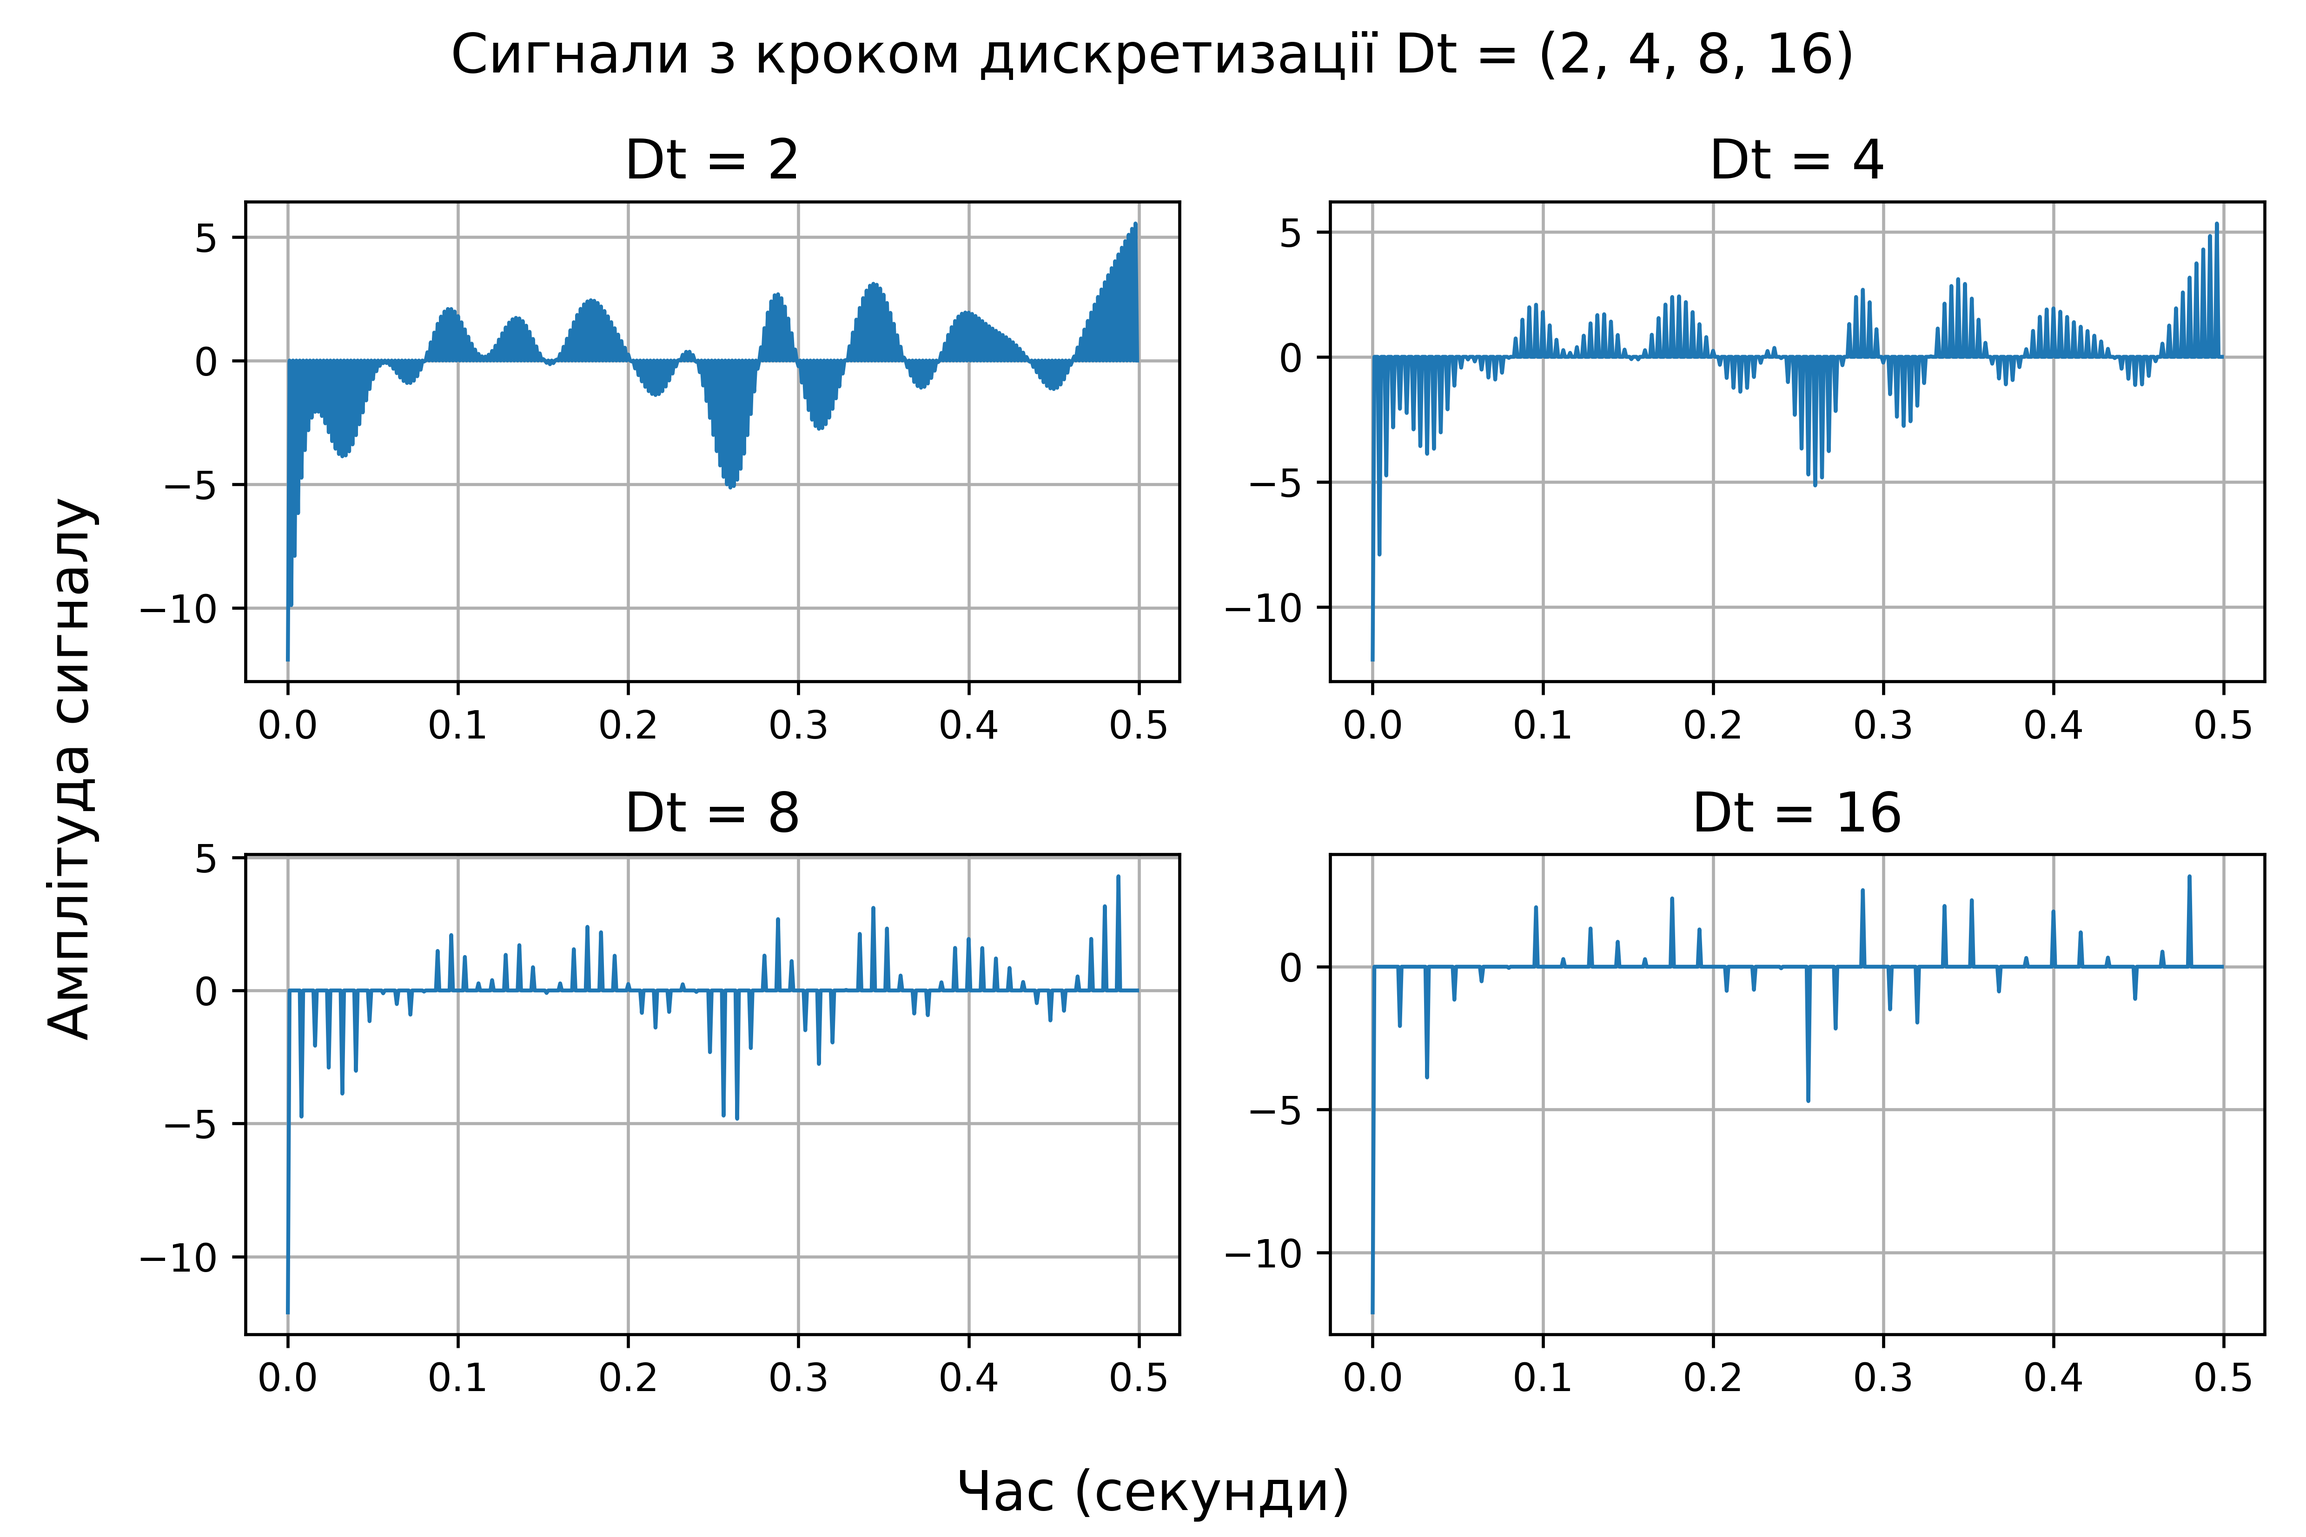
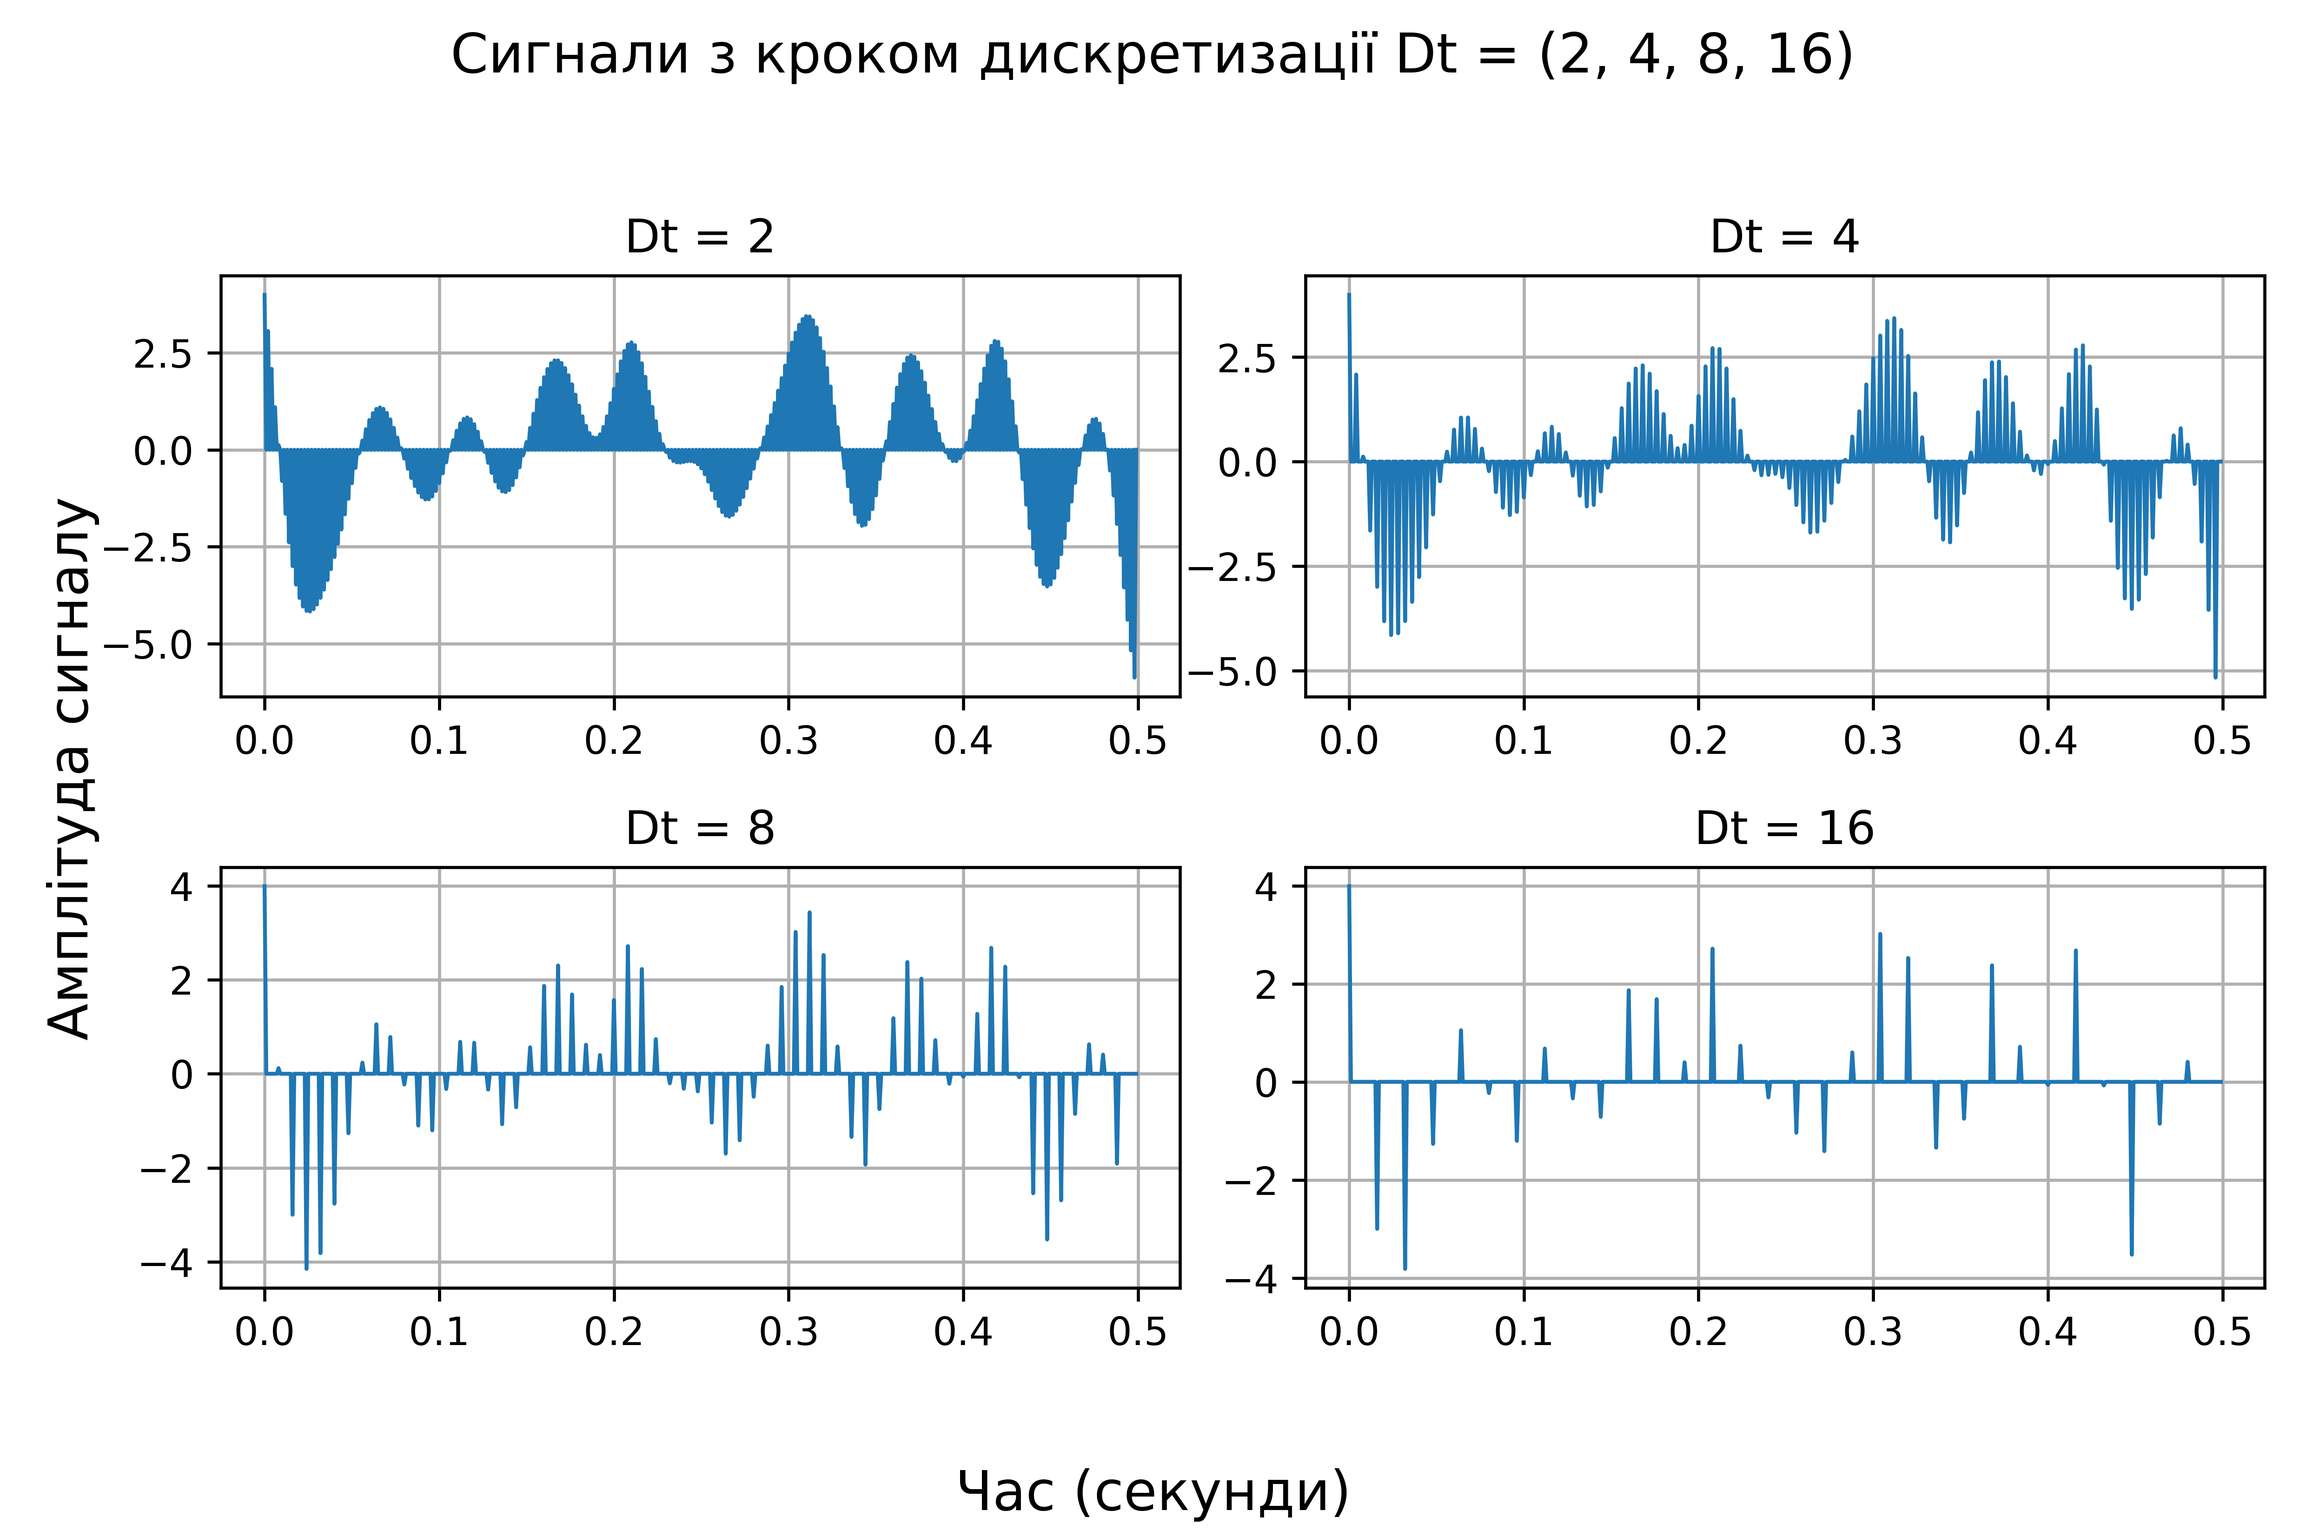
SignalProseccing 3-rd stage

Changed region(s): [[0.0625, 0.0934, 0.5312, 0.9032], [0.5312, 0.0934, 1.0, 0.9032]]

diff --git a/SignalProcessing.py b/SignalProcessing.py
@@ -1,7 +1,7 @@
-import numpy as np
-from scipy import signal, fft
-import matplotlib.pyplot as plt
 import os
+import numpy as np
+import matplotlib.pyplot as plt
+from scipy import signal, fft
 
 
 def generate_signal(n, f_max, fs):
@@ -15,9 +15,22 @@ def generate_signal(n, f_max, fs):
     return time_values, filtered_signal
 
 
-def plot_graph(x, y, title, xlabel, ylabel, filename):
+def calculate_spectrum(sig, fs):
+    spectrum = fft.fft(sig)
+    spectrum_abs = np.abs(fft.fftshift(spectrum))
+    freq = fft.fftfreq(len(sig), d=1 / fs)
+    freq_shifted = fft.fftshift(freq)
+    return freq_shifted, spectrum_abs
+
+
+def plot_graph(x, y, title, xlabel, ylabel, filename, linewidth=1, step=False):
     fig, ax = plt.subplots(figsize=(21 / 2.54, 14 / 2.54))
-    ax.plot(x, y, linewidth=1)
+
+    if step:
+        ax.step(x, y, where='post', linewidth=linewidth)
+    else:
+        ax.plot(x, y, linewidth=linewidth)
+
     ax.set_xlabel(xlabel, fontsize=14)
     ax.set_ylabel(ylabel, fontsize=14)
     ax.set_title(title, fontsize=14)
@@ -27,37 +40,46 @@ def plot_graph(x, y, title, xlabel, ylabel, filename):
     plt.show()
 
 
-def plot_subplots(x, y_list, title, xlabel, ylabel, filename, dt_values):
+def plot_subplots(x, y_list, subplot_titles, title, xlabel, ylabel, filename, step=False):
     fig, ax = plt.subplots(2, 2, figsize=(21 / 2.54, 14 / 2.54))
     s = 0
 
     for i in range(2):
         for j in range(2):
-            ax[i][j].plot(x, y_list[s], linewidth=1)
-            ax[i][j].set_title(f"Dt = {dt_values[s]}", fontsize=14)
+            if step:
+                ax[i][j].step(x, y_list[s], where='post', linewidth=1)
+            else:
+                ax[i][j].plot(x, y_list[s], linewidth=1)
+
+            ax[i][j].set_title(subplot_titles[s], fontsize=12)
             ax[i][j].grid(True)
             s += 1
 
     fig.supxlabel(xlabel, fontsize=14)
     fig.supylabel(ylabel, fontsize=14)
     fig.suptitle(title, fontsize=14)
-    fig.tight_layout()
+    fig.tight_layout(rect=[0, 0.03, 1, 0.95])
     fig.savefig(filename, dpi=600)
     plt.show()
 
 
 if __name__ == "__main__":
-    # Варіант 10
+    np.random.seed(42)
+
+    # ---------------- Загальні параметри ----------------
     n = 500
     Fs = 1000
-    F_max = 21
-    F_filter = 28
+    F_max = 21          # Варіант 10 для ПР2/ПР4
+    F_filter = 28       # Варіант 10 для ПР3
     Dt_values = [2, 4, 8, 16]
+    M_values = [4, 16, 64, 256]
 
     if not os.path.exists("figures"):
         os.makedirs("figures")
 
-    # ---------------- ПР2: генерація сигналу ----------------
+    # ====================================================
+    #                   ПРАКТИЧНА РОБОТА 2
+    # ====================================================
     time_values, filtered_signal = generate_signal(n, F_max, Fs)
 
     plot_graph(
@@ -69,10 +91,7 @@ if __name__ == "__main__":
         f"./figures/Сигнал_Fmax_{F_max}Гц.png"
     )
 
-    spectrum = fft.fft(filtered_signal)
-    spectrum_abs = np.abs(fft.fftshift(spectrum))
-    freq = fft.fftfreq(n, d=1 / Fs)
-    freq_shifted = fft.fftshift(freq)
+    freq_shifted, spectrum_abs = calculate_spectrum(filtered_signal, Fs)
 
     plot_graph(
         freq_shifted,
@@ -83,12 +102,17 @@ if __name__ == "__main__":
         f"./figures/Спектр_Fmax_{F_max}Гц.png"
     )
 
-    # ---------------- ПР3 ----------------
+    # ====================================================
+    #                   ПРАКТИЧНА РОБОТА 3
+    # ====================================================
     discrete_signals = []
     discrete_spectrums = []
     restored_signals = []
-    variances = []
-    snr_ratios = []
+    variances_pr3 = []
+    snr_ratios_pr3 = []
+
+    w_restore = F_filter / (Fs / 2)
+    restore_filter = signal.butter(3, w_restore, 'low', output='sos')
 
     for Dt in Dt_values:
         discrete_signal = np.zeros(n)
@@ -98,56 +122,54 @@ if __name__ == "__main__":
             if index < n:
                 discrete_signal[index] = filtered_signal[index]
 
-        discrete_signals.append(discrete_signal.tolist())
+        discrete_signals.append(discrete_signal.copy())
 
-        discrete_spectrum = np.abs(fft.fftshift(fft.fft(discrete_signal)))
-        discrete_spectrums.append(discrete_spectrum.tolist())
+        _, discrete_spectrum = calculate_spectrum(discrete_signal, Fs)
+        discrete_spectrums.append(discrete_spectrum.copy())
 
-        w_restore = F_filter / (Fs / 2)
-        restore_filter = signal.butter(3, w_restore, 'low', output='sos')
         restored_signal = signal.sosfiltfilt(restore_filter, discrete_signal)
-        restored_signals.append(restored_signal.tolist())
+        restored_signals.append(restored_signal.copy())
 
         E1 = restored_signal - filtered_signal
         variance_error = np.var(E1)
-        snr = np.var(filtered_signal) / variance_error
+        snr_value = np.var(filtered_signal) / variance_error if variance_error != 0 else np.inf
 
-        variances.append(variance_error)
-        snr_ratios.append(snr)
+        variances_pr3.append(variance_error)
+        snr_ratios_pr3.append(snr_value)
 
     plot_subplots(
         time_values,
         discrete_signals,
+        [f"Dt = {dt}" for dt in Dt_values],
         "Сигнали з кроком дискретизації Dt = (2, 4, 8, 16)",
         "Час (секунди)",
         "Амплітуда сигналу",
-        "./figures/Дискретизовані сигнали.png",
-        Dt_values
+        "./figures/Дискретизовані сигнали.png"
     )
 
     plot_subplots(
         freq_shifted,
         discrete_spectrums,
+        [f"Dt = {dt}" for dt in Dt_values],
         "Спектри сигналів з кроком дискретизації Dt = (2, 4, 8, 16)",
         "Частота (Гц)",
         "Амплітуда спектру",
-        "./figures/Спектри дискретизованих сигналів.png",
-        Dt_values
+        "./figures/Спектри дискретизованих сигналів.png"
     )
 
     plot_subplots(
         time_values,
         restored_signals,
+        [f"Dt = {dt}" for dt in Dt_values],
         "Відновлені аналогові сигнали з кроком дискретизації Dt = (2, 4, 8, 16)",
         "Час (секунди)",
         "Амплітуда сигналу",
-        "./figures/Відновлені сигнали.png",
-        Dt_values
+        "./figures/Відновлені сигнали.png"
     )
 
     plot_graph(
         Dt_values,
-        variances,
+        variances_pr3,
         "Залежність дисперсії від кроку дискретизації",
         "Крок дискретизації",
         "Дисперсія",
@@ -156,9 +178,113 @@ if __name__ == "__main__":
 
     plot_graph(
         Dt_values,
-        snr_ratios,
+        snr_ratios_pr3,
         "Залежність співвідношення сигнал-шум від кроку дискретизації",
         "Крок дискретизації",
         "ССШ",
         "./figures/ССШ від кроку дискретизації.png"
+    )
+
+    # ====================================================
+    #                   ПРАКТИЧНА РОБОТА 4
+    # ====================================================
+    quantized_signals = []
+    variances_pr4 = []
+    snr_ratios_pr4 = []
+
+    for M in M_values:
+        bits = []
+
+        delta = (np.max(filtered_signal) - np.min(filtered_signal)) / (M - 1)
+        quantize_signal = delta * np.round(filtered_signal / delta)
+        quantized_signals.append(quantize_signal.copy())
+
+        quantize_levels = np.arange(np.min(quantize_signal), np.max(quantize_signal) + delta, delta)
+        if len(quantize_levels) < M:
+            quantize_levels = np.linspace(np.min(quantize_signal), np.max(quantize_signal), M)
+
+        quantize_levels = np.round(quantize_levels[:M], 10)
+
+        bit_count = int(np.log2(M))
+        quantize_bit = [format(i, '0' + str(bit_count) + 'b') for i in range(M)]
+
+        quantize_table = np.c_[quantize_levels, quantize_bit]
+
+        # Таблиця квантування
+        fig_table, ax_table = plt.subplots(figsize=(14 / 2.54, M / 2.54))
+        table = ax_table.table(
+            cellText=quantize_table,
+            colLabels=['Значення сигналу', 'Кодова послідовність'],
+            loc='center'
+        )
+        table.set_fontsize(14)
+        table.scale(1, 2)
+        ax_table.axis('off')
+        fig_table.tight_layout()
+        fig_table.savefig(f"./figures/Таблиця квантування для {M} рівнів.png", dpi=600)
+        plt.show()
+
+        # Кодування сигналу у біти
+        level_to_bit = {level: bit for level, bit in zip(quantize_levels, quantize_bit)}
+
+        for signal_value in quantize_signal:
+            rounded_value = np.round(signal_value, 10)
+
+            if rounded_value in level_to_bit:
+                bits.append(level_to_bit[rounded_value])
+            else:
+                nearest_index = np.argmin(np.abs(quantize_levels - signal_value))
+                bits.append(quantize_bit[nearest_index])
+
+        bits = [int(item) for item in ''.join(bits)]
+
+        # Графік бітової послідовності
+        fig_bits, ax_bits = plt.subplots(figsize=(21 / 2.54, 14 / 2.54))
+        ax_bits.step(np.arange(0, len(bits)), bits, where='post', linewidth=0.1)
+        ax_bits.set_xlabel('Біти', fontsize=14)
+        ax_bits.set_ylabel('Амплітуда сигналу', fontsize=14)
+        ax_bits.set_title(
+            f'Кодова послідовність сигналу при кількості рівнів квантування {M}',
+            fontsize=14
+        )
+        ax_bits.grid(True)
+        fig_bits.tight_layout()
+        fig_bits.savefig(f"./figures/Кодова послідовність для {M} рівнів.png", dpi=600)
+        plt.show()
+
+        # Дисперсія та ССШ
+        error_signal = quantize_signal - filtered_signal
+        variance_error = np.var(error_signal)
+        snr_value = np.var(filtered_signal) / variance_error if variance_error != 0 else np.inf
+
+        variances_pr4.append(variance_error)
+        snr_ratios_pr4.append(snr_value)
+
+    plot_subplots(
+        time_values,
+        quantized_signals,
+        [f"M = {m}" for m in M_values],
+        "Цифрові сигнали з рівнями квантування (4, 16, 64, 256)",
+        "Час (секунди)",
+        "Амплітуда сигналу",
+        "./figures/Цифрові сигнали з різними рівнями квантування.png",
+        step=True
+    )
+
+    plot_graph(
+        M_values,
+        variances_pr4,
+        "Залежність дисперсії від кількості рівнів квантування",
+        "Кількість рівнів квантування",
+        "Дисперсія",
+        "./figures/Дисперсія від кількості рівнів квантування.png"
+    )
+
+    plot_graph(
+        M_values,
+        snr_ratios_pr4,
+        "Залежність співвідношення сигнал-шум від кількості рівнів квантування",
+        "Кількість рівнів квантування",
+        "ССШ",
+        "./figures/ССШ від кількості рівнів квантування.png"
     )
